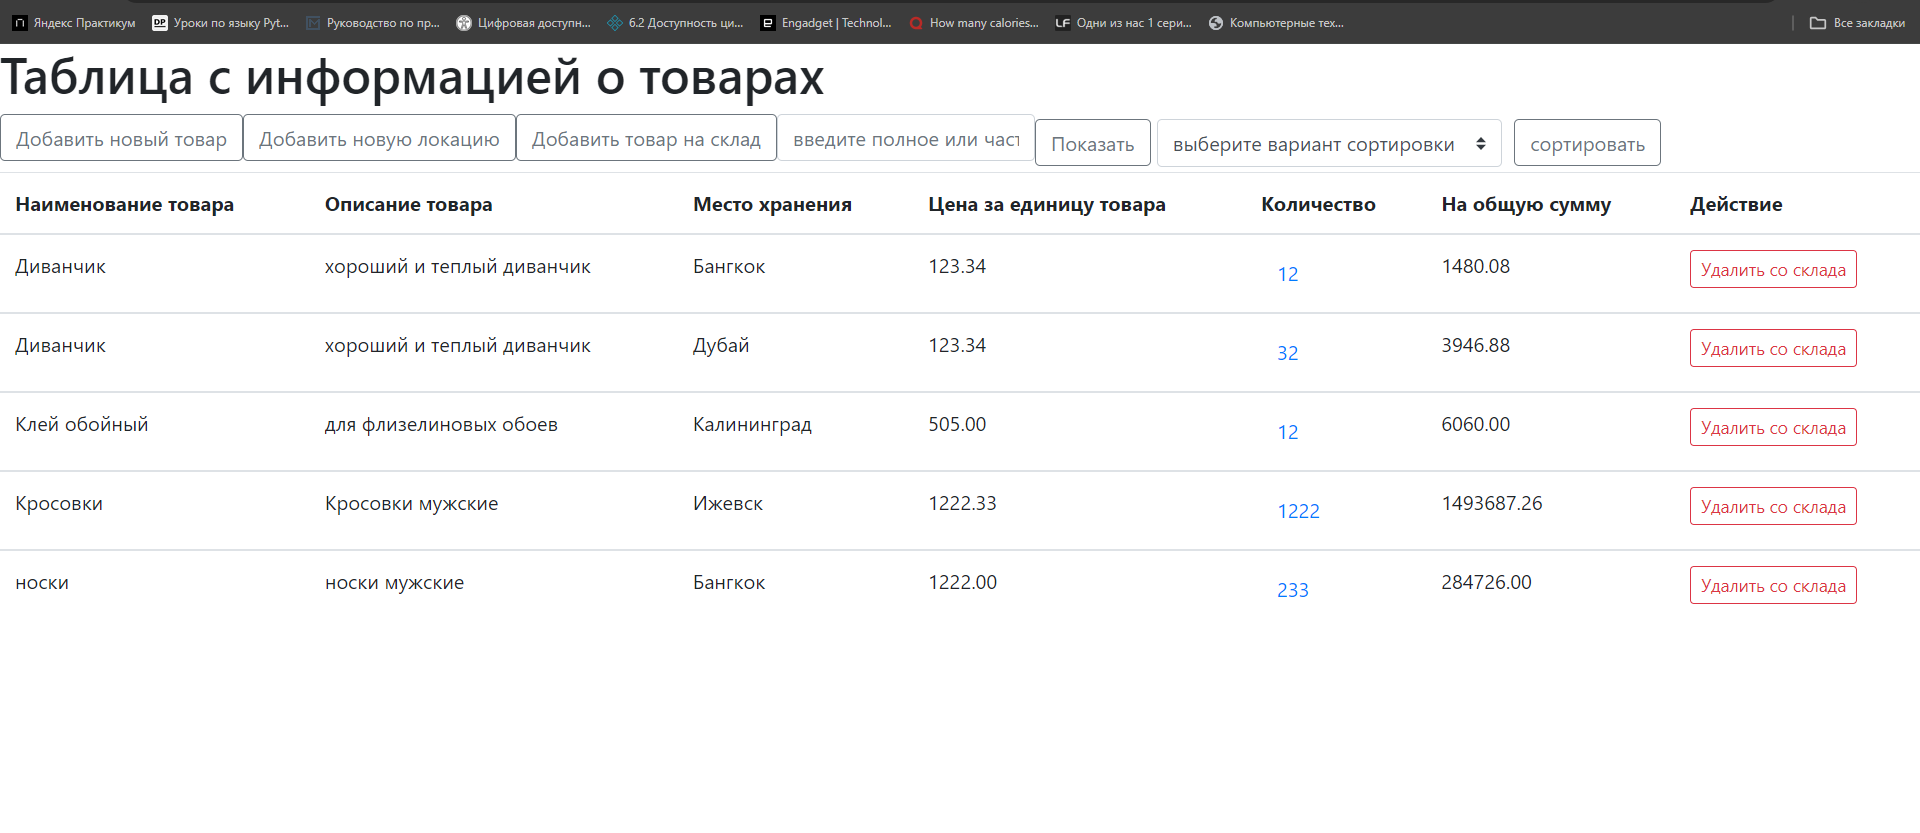
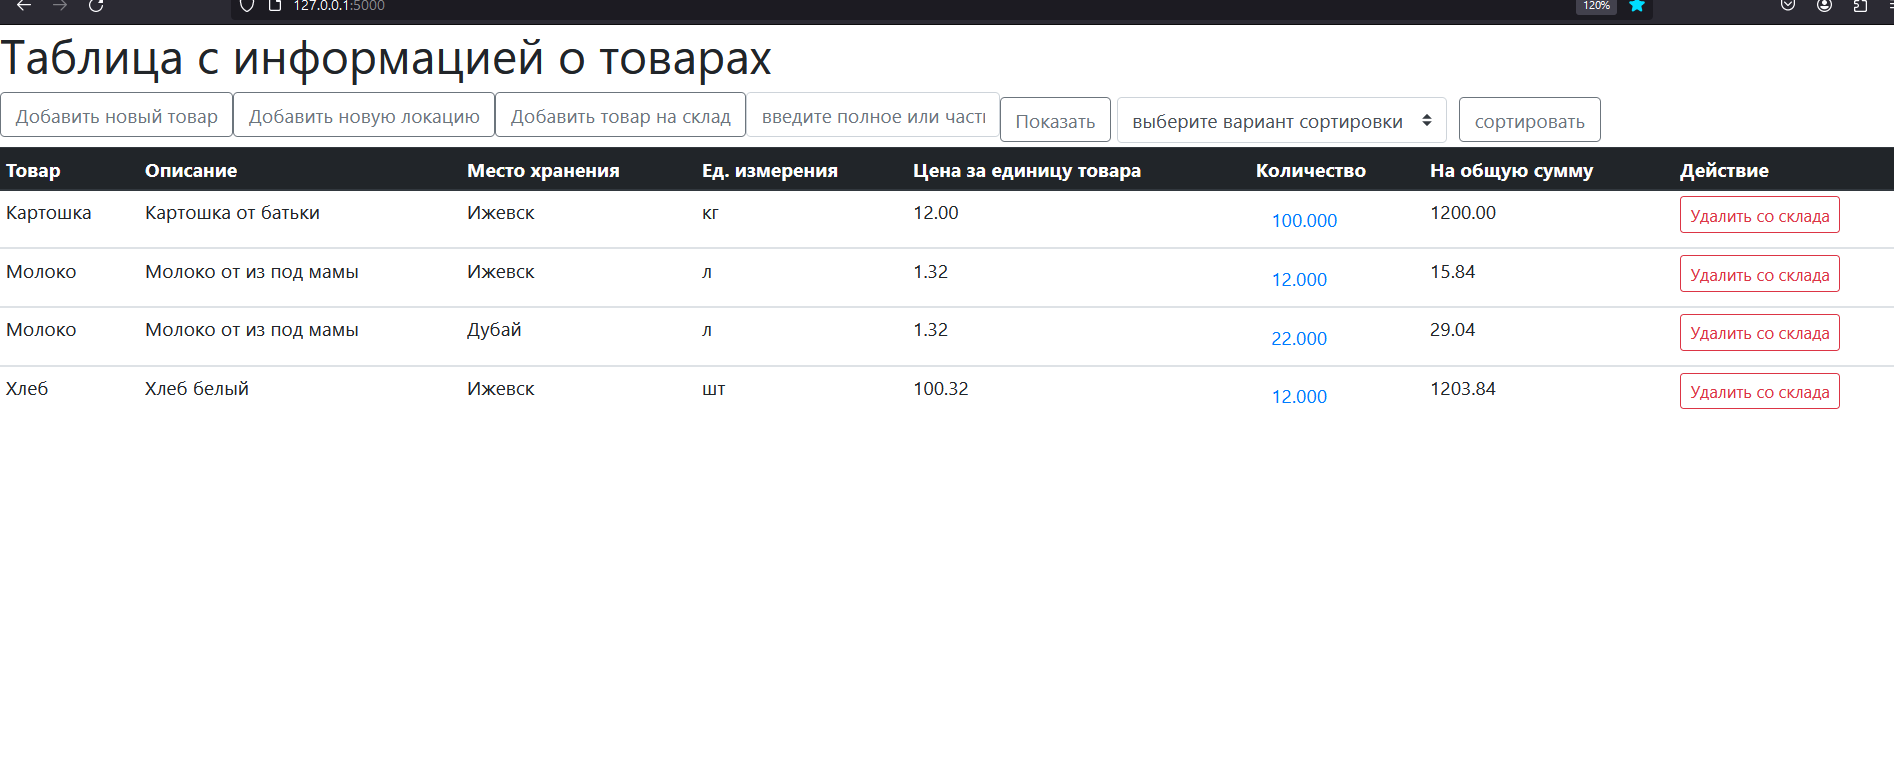
Неболшие правки в проект
Из самого важного: добавлена новая модель, которая описывает
информацию об единицах измерения товаров. Немного изменен дизайн
главной страницы и отредактированы некоторые сообщения для пользователя.

diff --git a/templates/index.html b/templates/index.html
@@ -62,6 +62,13 @@
 
                 <label for="product-description" class="col-form-label">Описание товара</label>
                 <input type="text" class="form-control" id="product-description" name="product_description" placeholder="введите описание товара" required>
+                
+                <label for="exampleFormControlSelect1">Выберите единицу измерения</label>
+                <select class="form-control" id="exampleFormControlSelect1" name="unit_id" required>
+                  {% for unit in context.units %}
+                    <option value={{unit.id}}>{{ unit.name }}</option>
+                  {% endfor %}
+                </select>
 
                 <label for="product-price" class="col-form-label">Цена за единицу товара</label>
                 <input type="text" min="0" class="form-control" id="product-price" name="product_price" placeholder="0" required>
@@ -181,8 +188,8 @@
                 <label for="exampleFormControlSelect1">Выберите товар</label>
                 <select class="form-control" id="exampleFormControlSelect1" name="product_id" required>
                   {% for product in context.product %}
-                    <option value={{product.id}}>{{ product.name }} (цена {{ product.price }} за единицу товара)  </option>
-                    {% endfor %}
+                    <option value={{product.id}}>{{ product.name }} (цена {{ product.price }} за {{ product.units.name }})  </option>
+                  {% endfor %}
                 </select>
               </div>
 
@@ -191,14 +198,13 @@
                 <select class="form-control" id="exampleFormControlSelect1" name="location_id" required>
                   {% for location in context.location %}
                     <option value={{ location.id }}> {{ location.name }}</option>
-                    {% endfor %}
+                  {% endfor %}
                 </select>
               </div>
 
-
               <div class="form-group input">
                 <label for="quantity" class="col-form-label">Укажите количество товара</label>
-                <input type="number" min="1" class="form-control" id="quantity" name="quantity" placeholder="1" required>
+                <input type="text" min="1" class="form-control" id="quantity" name="quantity" placeholder="1" required>
               </div>
              
               <div class="modal-footer">
@@ -248,12 +254,13 @@
       </div>
     </form>
   
-    <table class="table table-hover">
-      <thead>
+    <table class="table table-hover table-sm">
+      <thead class="thead-dark">
         <tr>
-          <th scope="col">Наименование товара</th>
-          <th scope="col">Описание товара</th>
+          <th scope="col">Товар</th>
+          <th scope="col">Описание</th>
           <th scope="col">Место хранения</th>
+          <th scope="col">Ед. измерения</th>
           <th scope="col">Цена за единицу товара</th>
           <th scope="col">Количество</th>
           <th scope="col">На общую сумму</th>
@@ -266,11 +273,12 @@
           <td>{{ inventory.products.name }}</td>
           <td>{{ inventory.products.description }}</td>
           <td>{{ inventory.locations.name }}</td>
+          <td>{{ inventory.products.units.name }}</td>
           <td>{{ inventory.products.price }} </td>
           <td>
             <button type="button" class="btn btn-link" data-info="{{ inventory.id }}" data-toggle="modal" data-target="#change_quantity_products">{{ inventory.quantity }}</button>
           </td>
-          <td>{{ inventory.products.price * inventory.quantity}} </td>
+          <td>{{ inventory.products.price | total_cost_calculation (inventory.quantity) }} </td>
           <td>
             <button type="button" class="btn btn-outline-danger btn-sm" data-info={{ inventory.id }} data-toggle="modal" data-target="#del_product_to_warehouse">Удалить со склада</button>
           </td>

diff --git a/processing_request/processing_request.py b/processing_request/processing_request.py
@@ -1,3 +1,5 @@
+from decimal import Decimal
+
 from flask import flash, request
 from werkzeug.datastructures.structures import ImmutableMultiDict
 
@@ -9,12 +11,12 @@ from database.data_operations import (
     del_product_from_inventory,
     get_object_by_id,
 )
-from database.models import Location, Product
+from database.models import Location, Product, Unit
 from form_validation.form_validation import (
     validation_inventory,
+    validation_inventory_id,
     validation_location,
     validation_product,
-    validation_inventory_id,
     validation_quantity,
 )
 
@@ -47,10 +49,12 @@ def processing_request_add_product(form_data: ImmutableMultiDict) -> None:
     name = form_data.get('product_name')
     description = form_data.get('product_description')
     price = form_data.get('product_price')
-    result = validation_product(name, description, price)
+    unit_id = form_data.get('unit_id')
+    result = validation_product(name, description, unit_id)
     if result:
+        unit_instance = get_object_by_id(model=Unit, id=int(unit_id))
         query_result = add_product(
-            name, description, float(price.replace(',', '.'))
+            name, description, Decimal(price.replace(',', '.')), unit_instance
         )
         if query_result.get('status'):
             flash(f'{query_result.get("product")} успешно добавлен')
@@ -85,12 +89,15 @@ def processing_request_add_product_to_inventory(
         )
         if product_instance and location_instance:
             query_result = add_product_to_inventory(
-                product_instance, location_instance, int(quantity)
+                product_instance,
+                location_instance,
+                Decimal(quantity.replace(',', '.')),
             )
             if query_result.get('status'):
+                inventory_instance = query_result.get('instance')
                 flash(
-                    f'{product_instance.name} успешно добавлен '
-                    f'на склад в {location_instance.name}'
+                    f'Товар {inventory_instance.products.name} '
+                    'успешно добавлен!'
                 )
             else:
                 flash(

diff --git a/database/models.py b/database/models.py
@@ -26,6 +26,19 @@ class BaseModel(DeclarativeBase):
     """Определение базовой модели."""
 
 
+class Unit(BaseModel):
+    """Модель для хранения данных об единицах измерения товаров.."""
+
+    __tablename__ = 'units'
+
+    id = Column(Integer, primary_key=True)
+    name = Column(String(length=5), comment='Единицы измерения', unique=True)
+    products = relationship('Product', back_populates='units')
+
+    def __repr__(self) -> str:
+        return f'Единица измерения товара: {self.name}'
+
+
 class Product(BaseModel):
     """Модель для хранения данных о товарах."""
 
@@ -38,7 +51,9 @@ class Product(BaseModel):
         unique=True,
     )
     description = Column(Text, comment='Описание продукции')
-    price = Column(Numeric(precision=10, scale=2), comment='Цена продукции')
+    price = Column(Numeric(precision=18, scale=2), comment='Цена продукции')
+    unit_id = Column(Integer, ForeignKey('units.id'))
+    units = relationship('Unit', back_populates='products', lazy='joined')
     inventories = relationship('Inventory', back_populates='products')
 
     def __repr__(self) -> str:
@@ -48,7 +63,7 @@ class Product(BaseModel):
 class Location(BaseModel):
     """Модель для хранения данных о локациях."""
 
-    __tablename__ = 'location'
+    __tablename__ = 'locations'
 
     id = Column(Integer, primary_key=True)
     name = Column(
@@ -71,12 +86,12 @@ class Inventory(BaseModel):
     products = relationship(
         'Product', back_populates='inventories', lazy='joined'
     )
-    location_id = Column(Integer, ForeignKey('location.id'))
+    location_id = Column(Integer, ForeignKey('locations.id'))
     locations = relationship(
         'Location', back_populates='inventories', lazy='joined'
     )
     quantity = Column(
-        Integer, comment='Количество продукции в месте ее хранения'
+        Numeric(precision=18, scale=3), comment='Количество товара'
     )
 
     def __repr__(self) -> str:

diff --git a/app.py b/app.py
@@ -1,9 +1,10 @@
 from flask import Flask, render_template, request
+from jinja2 import environment
 from sqlalchemy import desc
 from sqlalchemy.orm import Session
 
 from config.config import configuration_data
-from database.models import Inventory, Location, Product, engine
+from database.models import Inventory, Location, Product, Unit, engine
 from processing_request.processing_request import (
     processing_request_add_location,
     processing_request_add_product,
@@ -11,10 +12,14 @@ from processing_request.processing_request import (
     processing_request_change_quantity,
     processing_request_del_product_from_inventory,
 )
+from utils.utils import total_cost_calculation
 
 app = Flask(__name__)
 app.config['SECRET_KEY'] = configuration_data.secret_key.get_secret_value()
 app.config['DEBUG'] = configuration_data.debug
+
+
+environment.DEFAULT_FILTERS['total_cost_calculation'] = total_cost_calculation
 
 
 @app.route('/', methods=['GET', 'POST'])
@@ -40,7 +45,7 @@ def index():
         ):
             processing_request_add_product_to_inventory(request.form)
         if set(
-            ['product_name', 'product_description', 'product_price']
+            ['product_name', 'product_description', 'product_price', 'unit_id']
         ) == set(request.form.keys()):
             processing_request_add_product(request.form)
         if 'location' in request.form.keys():
@@ -80,10 +85,10 @@ def index():
         inventory = (
             Session(autoflush=False, bind=engine).query(Inventory).all()
         )
-
     context = {
         'title': title,
         'inventory': inventory,
+        'units': (Session(autoflush=False, bind=engine).query(Unit).all()),
         'product': (
             Session(autoflush=False, bind=engine).query(Product).all()
         ),

diff --git a/database/data_operations.py b/database/data_operations.py
@@ -1,13 +1,23 @@
+from decimal import Decimal
+
 from sqlalchemy.exc import IntegrityError, SQLAlchemyError
 from sqlalchemy.orm import Session
 
-from database.models import BaseModel, Inventory, Location, Product, engine
+from database.models import (
+    BaseModel,
+    Inventory,
+    Location,
+    Product,
+    Unit,
+    engine,
+)
 
 
 def add_product(
     product_name: str,
     product_description: str,
-    product_price: float,
+    product_price: Decimal,
+    unit: Unit,
 ) -> dict:
     """Добавление товара"""
     with Session(autoflush=False, bind=engine) as session:
@@ -16,6 +26,7 @@ def add_product(
                 name=product_name,
                 description=product_description,
                 price=product_price,
+                unit_id=unit.id,
             )
             session.add(new_product)
             session.commit()
@@ -67,7 +78,7 @@ def get_object_by_id(model: BaseModel, id: int):
 def add_product_to_inventory(
     product: Product,
     location: Location,
-    quantity: int,
+    quantity: Decimal,
 ):
     """Функция добавления товара на склад."""
     with Session(autoflush=False, bind=engine) as session:
@@ -87,7 +98,7 @@ def add_product_to_inventory(
         instance = session.get(Inventory, inventory_record.id)
     return {
         'status': True,
-        'inventory_record': instance,
+        'instance': instance,
     }
 
 

diff --git a/database_management.py b/database_management.py
@@ -1,9 +1,11 @@
 import sys
 
 from pymysql import connect
+from sqlalchemy.exc import SQLAlchemyError
+from sqlalchemy.orm import Session
 
 from config.config import configuration_data
-from database.models import BaseModel, engine
+from database.models import BaseModel, Unit, engine
 
 
 def create_database():
@@ -31,6 +33,30 @@ def create_tables() -> None:
         print('Таблицы успешно созданы!')
     except Exception as error:
         print(f'При создании таблиц произошла ошибка: {error}')
+
+
+def add_units():
+    """Функция добавления новой локации."""
+    units = [
+        'кг',
+        'шт',
+        'м',
+        'м\u00B2',
+        'м\u00B3',
+        'л',
+    ]
+    with Session(autoflush=False, bind=engine) as session:
+        try:
+            for unit in units:
+                instance = Unit(name=unit)
+                session.add(instance)
+                session.commit()
+        except SQLAlchemyError as error:
+            print(
+                'Придобавлении данных об единицах измерения '
+                f'произошла ошибка: {error}'
+            )
+        print('Данные в таблицу units успешно добавлены')
 
 
 name = sys.argv[1]

diff --git a/form_validation/form_validation.py b/form_validation/form_validation.py
@@ -3,12 +3,13 @@ def validation_location(location: str) -> bool:
     return isinstance(location, str) and len(location) <= 50
 
 
-def validation_product(name: str, description: str, price: str) -> bool:
+def validation_product(name: str, description: str, unit_id: str) -> bool:
     """Функция валидации данных о новом товаре."""
     return (
         isinstance(name, str)
         and len(name) <= 50
         and isinstance(description, str)
+        and unit_id.isdigit()
     )
 
 
@@ -21,9 +22,8 @@ def validation_inventory(
         and isinstance(quantity, str)
         and isinstance(product_id, str)
         and location_id.isdigit()
-        and quantity.isdigit()
         and product_id.isdigit()
-        and int(quantity) > 0
+        and float(quantity) > 0
     )
 
 

diff --git a/utils/utils.py b/utils/utils.py
@@ -1,0 +1,8 @@
+from decimal import Decimal
+
+
+def total_cost_calculation(price: Decimal, quantity: Decimal) -> Decimal:
+    """
+    Функция расчета общей стоимости товара, добавленного на склад
+    """
+    return round(price * quantity, 2)

diff --git a/README.md b/README.md
@@ -55,13 +55,17 @@ product_management_app позволяет:
 
     	python database_management.py create_tables
 
-10. Подгрузите данные в таблицы из файла dump-product_management_db-202404131337.sql
+10. Добавьте информацию об используемых единицах измерения:
+        
+        python database_management.py add_units
 
-11. Запустите проект:
+11. Подгрузите данные в таблицы из файла dump-product_management_db-202404131337.sql
+
+12. Запустите проект:
 
     	flask --app app run
 
-12. После запуска проекта он будет доступен по адресу:
+13. После запуска проекта он будет доступен по адресу:
 	
         http://127.0.0.1:5000/
 
